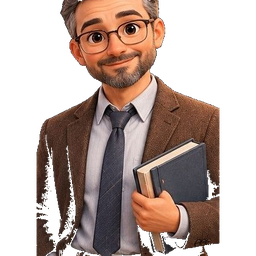
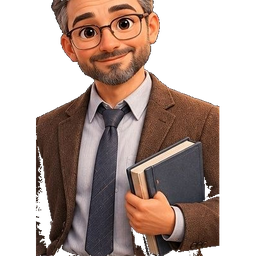
Аватар мужчины: чистая вырубка фона

diff --git a/js/account.js b/js/account.js
@@ -232,7 +232,7 @@ const Account = (() => {
           <label class="ac-ava" title="Нажмите, чтобы выбрать фото">${I.avatar ? `<img src="${esc(I.avatar)}" alt="">` : `<span>${esc(initials(I.name) || "👤")}</span>`}<input type="file" id="acPhoto" accept="image/*" hidden><em>${I.avatar ? "сменить" : "фото"}</em></label>
           <div class="ac-ava-set" id="acAvaSet">
             <span class="small">Или выберите готовый:</span>
-            <div class="ac-ava-grid">${[1,2,3,4,5,6,7].map(i=>`<button type="button" class="ac-ava-btn" data-ava="js/avatars/a${i}.png?v=3" title="Без фона"><img src="js/avatars/a${i}.png?v=3" alt=""></button>`).join("")}${[1,2,3,4,5,6,7].map(i=>`<button type="button" class="ac-ava-btn" data-ava="js/avatars/a${i}w.png?v=3" title="На белом"><img src="js/avatars/a${i}w.png?v=3" alt=""></button>`).join("")}</div>
+            <div class="ac-ava-grid">${[1,2,3,4,5,6,7].map(i=>`<button type="button" class="ac-ava-btn" data-ava="js/avatars/a${i}.png?v=4" title="Без фона"><img src="js/avatars/a${i}.png?v=4" alt=""></button>`).join("")}${[1,2,3,4,5,6,7].map(i=>`<button type="button" class="ac-ava-btn" data-ava="js/avatars/a${i}w.png?v=4" title="На белом"><img src="js/avatars/a${i}w.png?v=4" alt=""></button>`).join("")}</div>
           </div>
           <div class="ac-fields">
             <input type="text" id="acName" placeholder="Имя и фамилия" value="${esc(I.name || "")}" autocomplete="name">

diff --git a/sw.js b/sw.js
@@ -5,7 +5,7 @@
    • Библиотеки (Word, PowerPoint, PDF, шрифты): из кэша, если уже были загружены.
    • Ответы Википедии и Викитеки запоминаются: урок по той же теме без сети соберётся с ними.
    • Ключи нейросетей, запросы к нейросетям и к GitHub в кэш не попадают. */
-const VERSION = "uchu-v5.269";
+const VERSION = "uchu-v5.270";
 const SHELL = ["./", "index.html", "css/v5.css", "data/base.js", "data/own.js", "data/extra.js", "data/frp.js", "data/promo.js", "data/legal.js", "manifest.json",
   "vendor/marked.umd.js", "vendor/purify.min.js", "vendor/turndown.js", "vendor/turndown-plugin-gfm.js", "vendor/pptxgen.bundle.js", "vendor/jszip.min.js", "vendor/docx.umd.js",
   ...["log", "cleaner", "learn", "learn2", "variety", "methodbase", "plans-loader", "kits-loader", "imagegen", "frpkit", "subjects", "usage", "heur", "litkit", "notes", "verify", "ocr", "materials", "collect", "devmode", "devcover", "account", "cloudbase", "rules", "schemes", "layout", "lessonnotes", "tutor", "mnemo", "themes", "themes2", "video", "photostk", "access", "rukit", "deck", "slides", "publish", "sync", "worksearch", "ai", "blobs"].map(n => `js/${n}.js`)];
